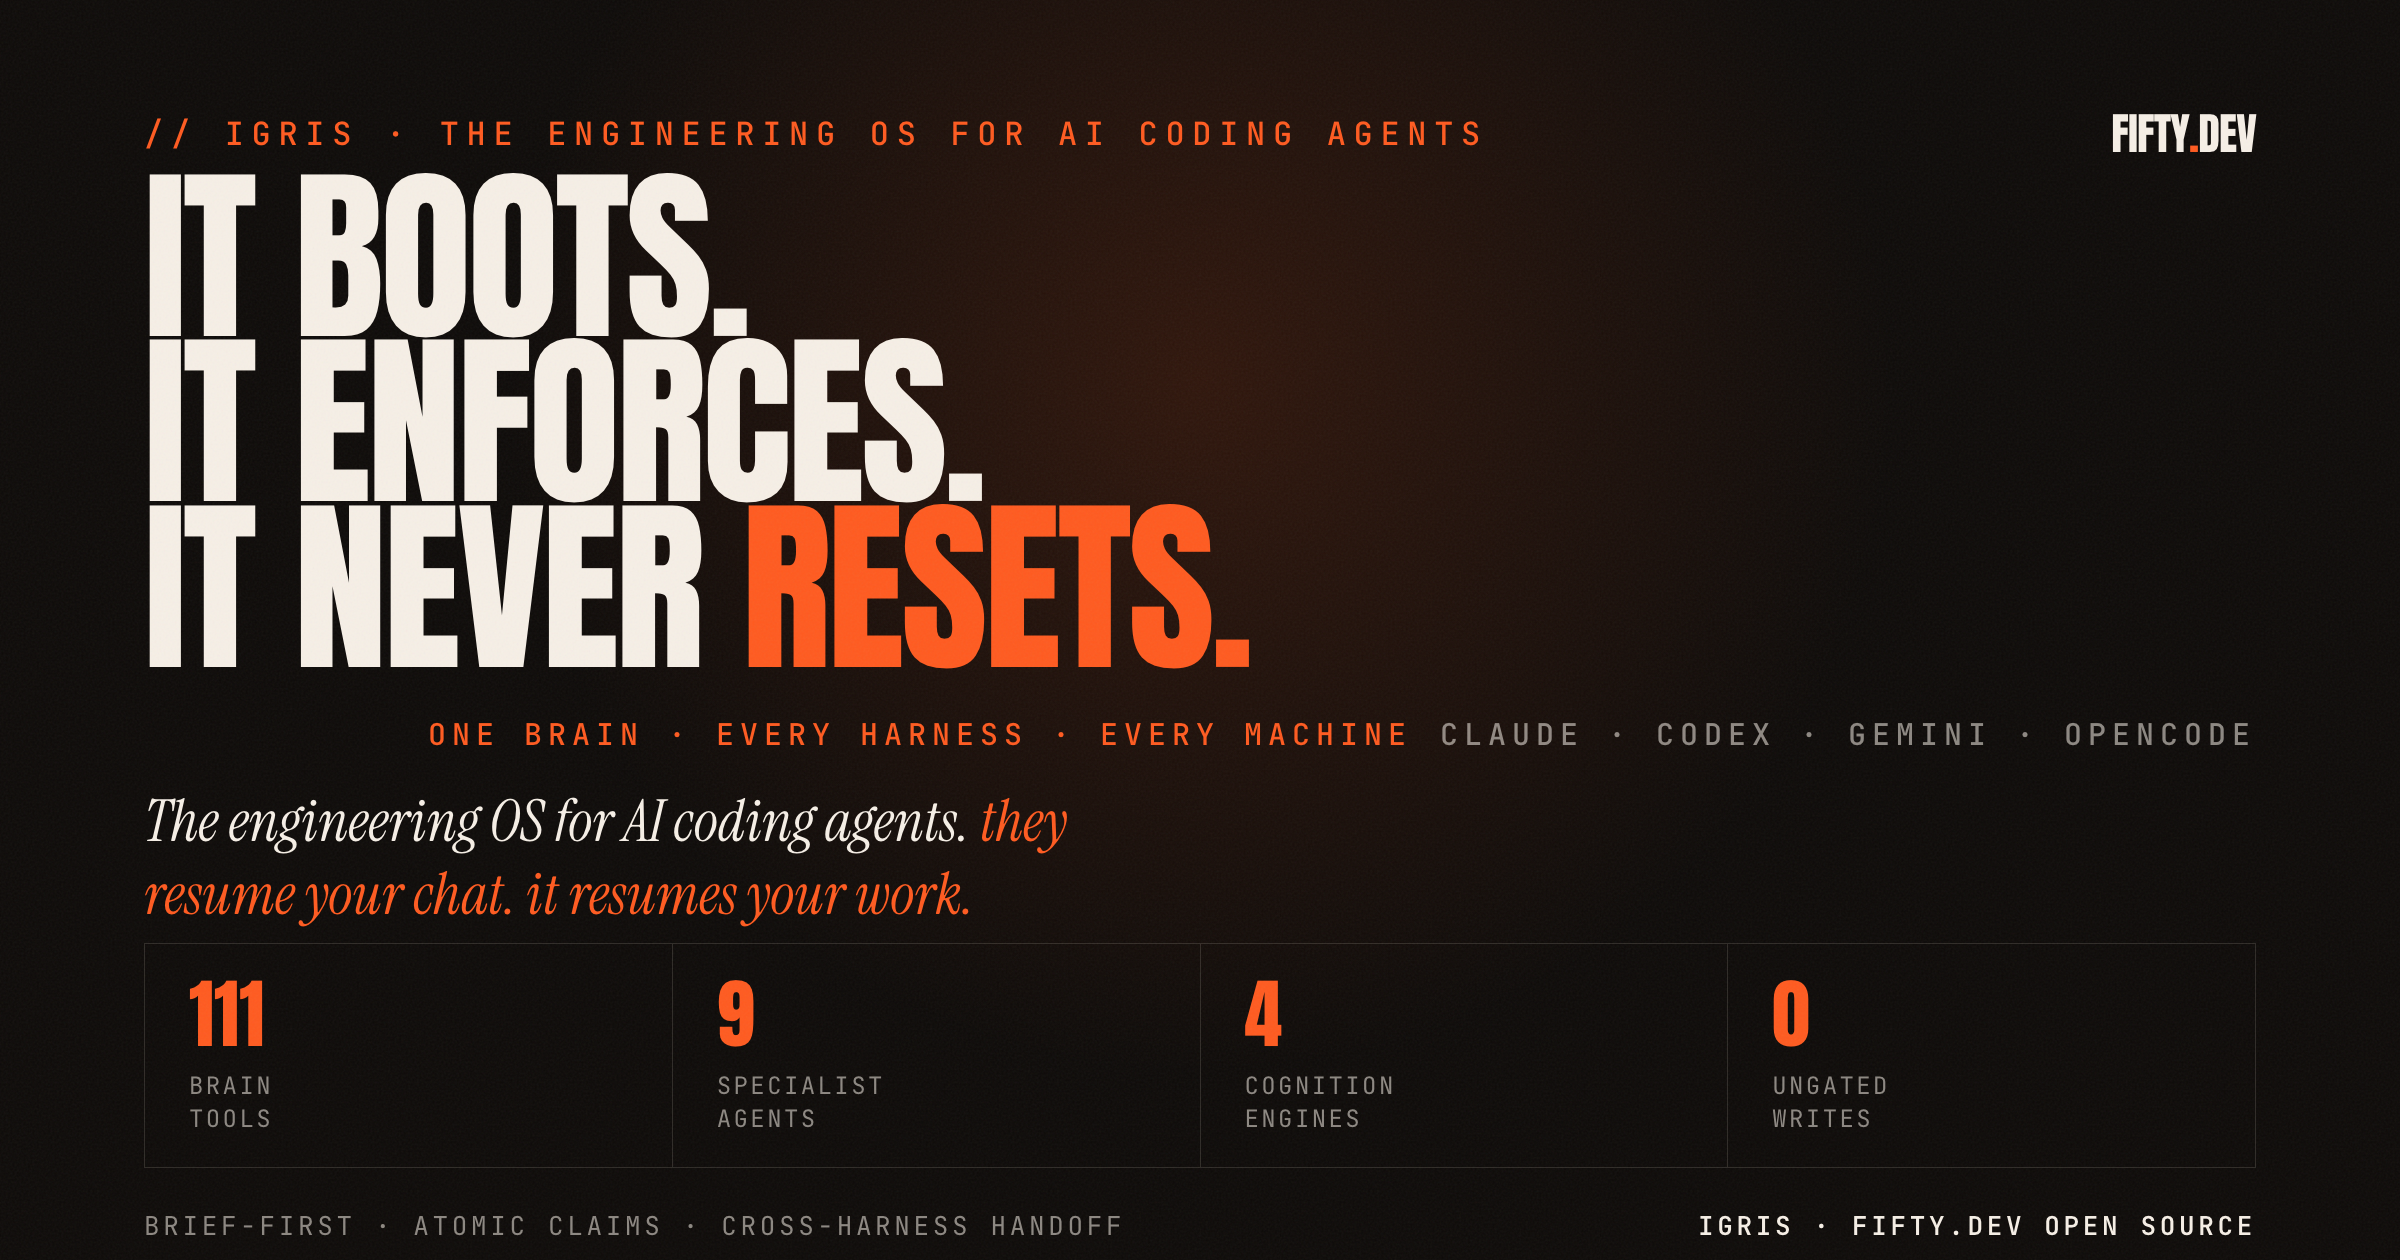
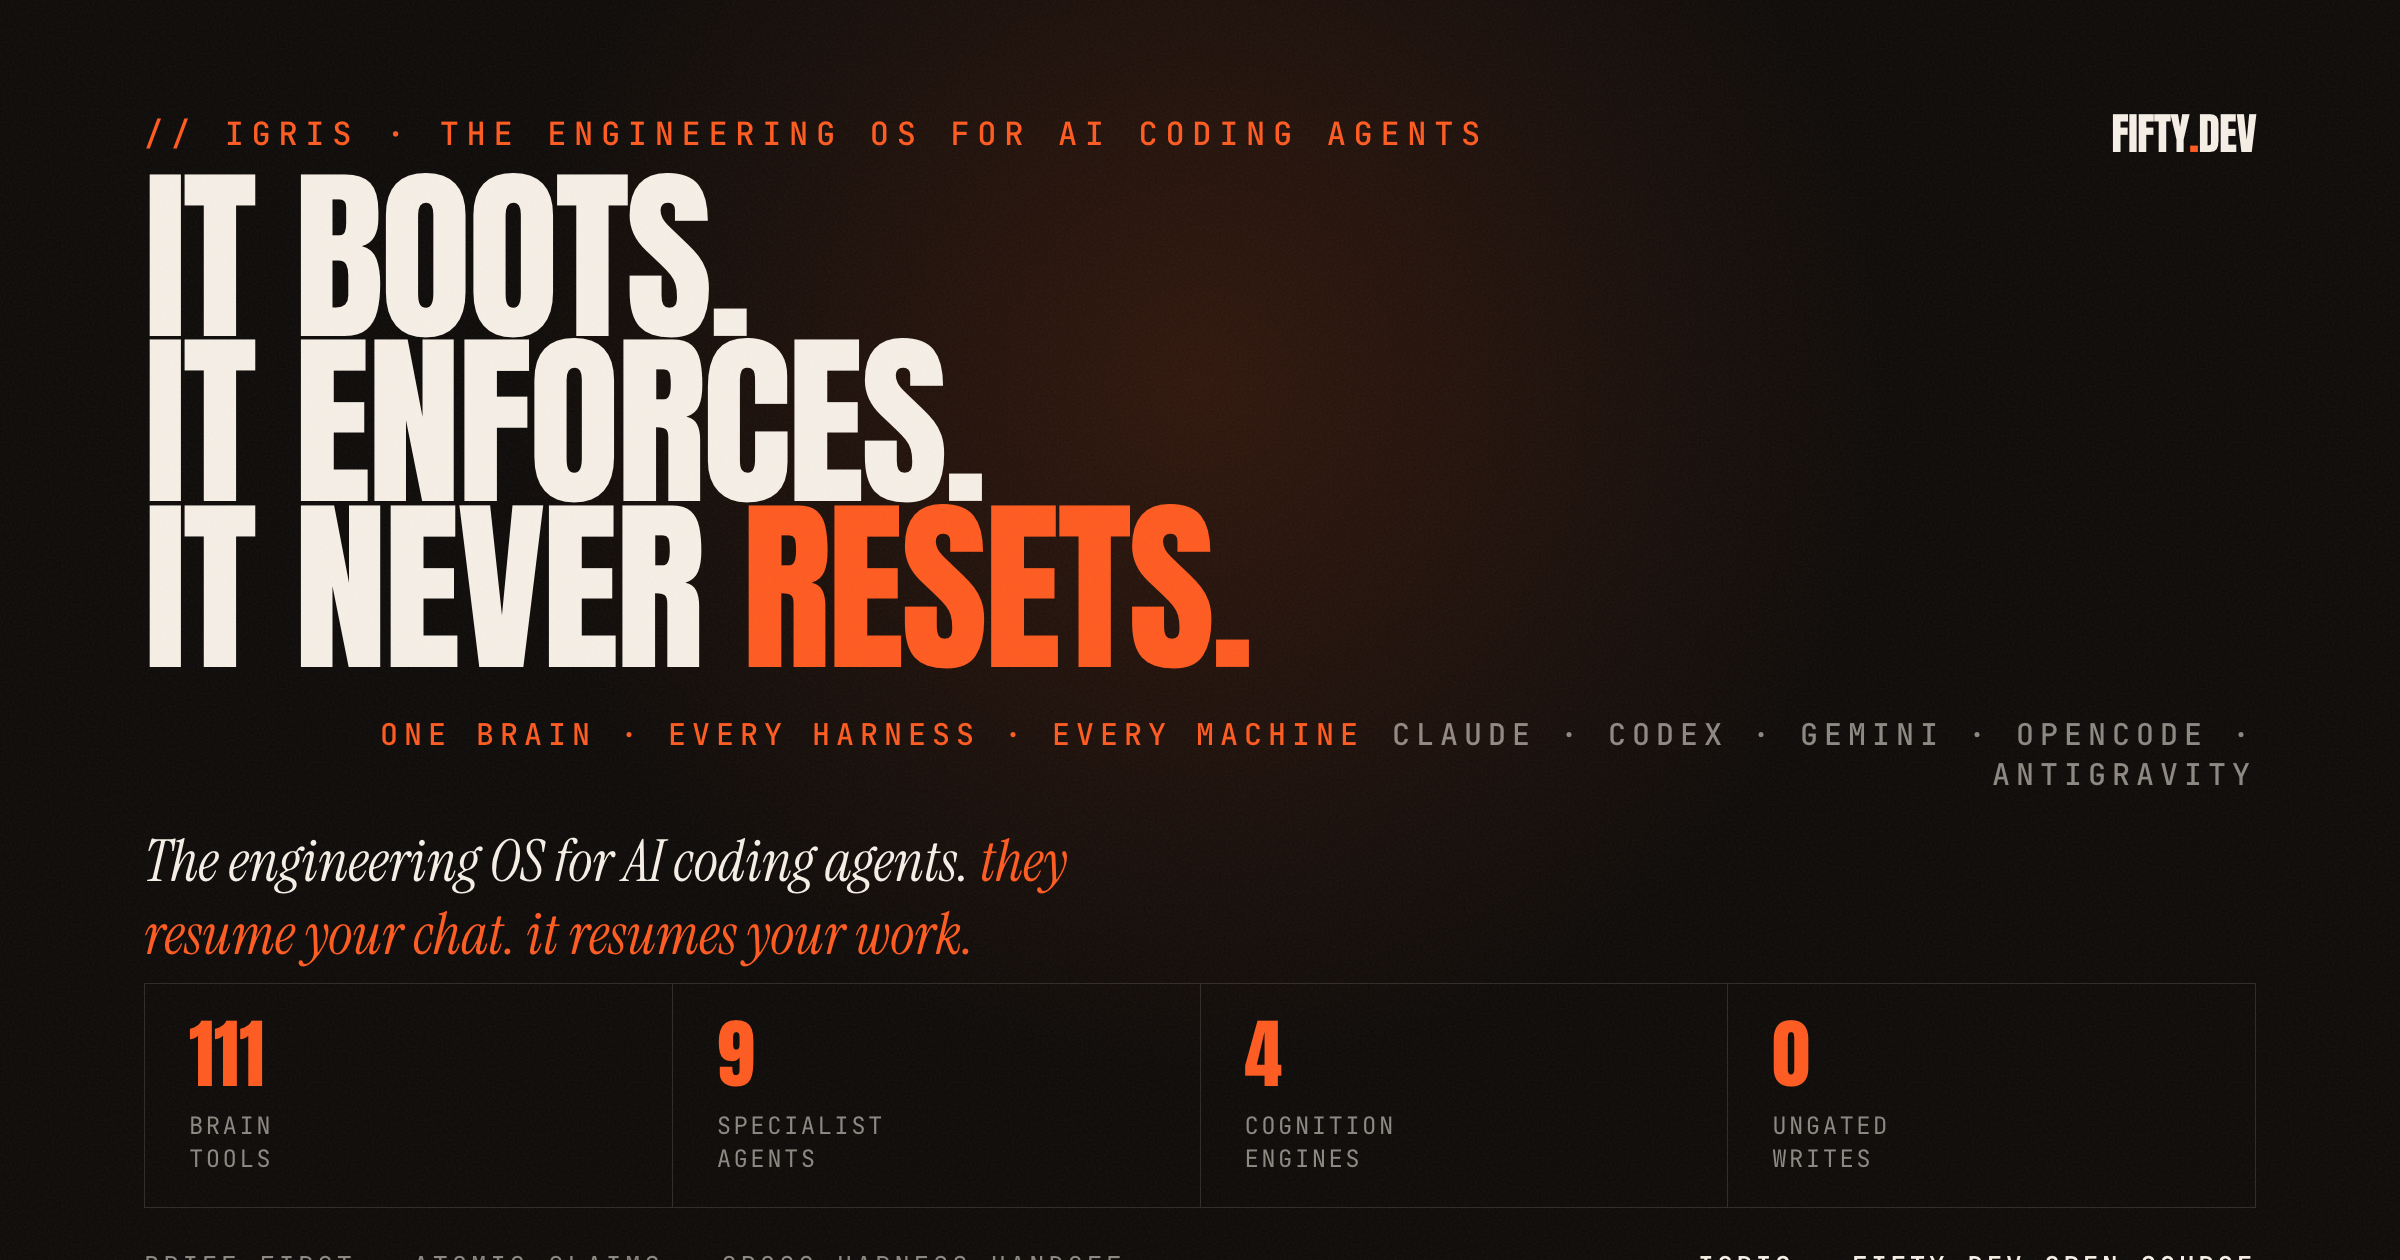
docs(readme): correct harness rail to all 5 shipped (add antigravity)
The rail listed only claude/codex/gemini/opencode; antigravity is a
first-class shipped harness and was missing. Cursor stays off — it is
onboarded but not yet a shipped surface (promotion tracked in FR-234).

diff --git a/docs/images/igris-social.html b/docs/images/igris-social.html
@@ -38,7 +38,7 @@
   </div>
   <div class="mid">
     <h1>It boots.<br>It enforces.<br>It never<span class="accent"> resets.</span></h1>
-    <div class="rail">one brain · every harness · every machine<span class="en">claude · codex · gemini · opencode</span></div>
+    <div class="rail">one brain · every harness · every machine<span class="en">claude · codex · gemini · opencode · antigravity</span></div>
     <div class="tag">The engineering OS for AI coding agents. <span class="a">they resume your chat. it resumes your work.</span></div>
   </div>
   <div>

diff --git a/docs/images/igris-banner.html b/docs/images/igris-banner.html
@@ -41,7 +41,7 @@
     </div>
     <div class="rt">
       <div class="mark">fifty<span class="accent">.</span>dev</div>
-      <div class="racc">every harness<span class="en">claude · codex · gemini · opencode</span></div>
+      <div class="racc">every harness<span class="en">claude · codex · gemini · opencode · antigravity</span></div>
     </div>
   </div>
   <div class="bottom">
